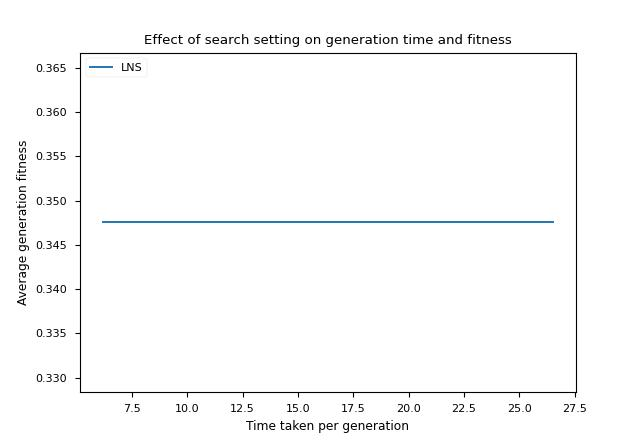
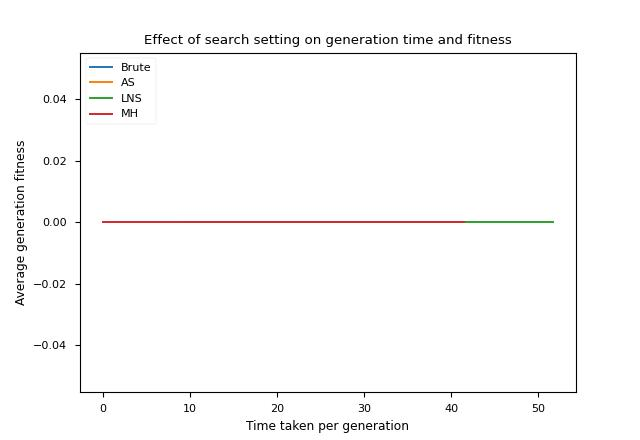
add search timeout comparison plot and best chromosome stats

diff --git a/metasynthesis/programming_language/plot_statistics.py b/metasynthesis/programming_language/plot_statistics.py
@@ -13,11 +13,12 @@ class LanguageStatistics:
         self.dsl = StandardDomainSpecificLanguage(domain)
 
         # These parameters are manually updated based on analysis of the plots
-        self.best_parameters = {"generation_limit": 2,
+        self.best_parameters = {"generation_limit": 3,
                                 "generation_size": 6,
                                 "search_mode": "debug",
                                 "search_algorithm": "AS",
-                                "max_search_time": 1,
+                                "search_setting": "SO",
+                                "max_search_time": 0.3,
                                 "crossover_probability": 0.8,
                                 "mutation_probability": 0.3,
                                 }
@@ -27,7 +28,6 @@ class LanguageStatistics:
 
         search_algorithms = ["Brute", "AS", "LNS", "MH"]
         # search_algorithms = ["LNS"]
-
 
         general_genetic = EvolvingLanguage(max_search_time=self.best_parameters["max_search_time"],
                                            generation_size=self.best_parameters["generation_size"])
@@ -98,6 +98,44 @@ class LanguageStatistics:
         plt.title("Effect of search setting on generation time and fitness")
         plt.legend(loc="upper left")
         plt.savefig("metasynthesis/programming_language/results/search_setting_comparison.jpg")
+        plt.show()
+
+    def plot_search_timeout_performance(self):
+        timeouts = [1, 2, 4, 7, 10]
+
+        general_genetic = EvolvingLanguage(max_search_time=self.best_parameters["max_search_time"],
+                                           generation_size=self.best_parameters["generation_size"])
+        start_population = general_genetic.generate_population()
+
+        for timeout in timeouts:
+            genetic = EvolvingLanguage(generation_limit=self.best_parameters["generation_limit"],
+                                       generation_size=self.best_parameters["generation_size"],
+                                       search_mode=self.best_parameters["search_mode"],
+                                       max_search_time=timeout,
+                                       crossover_probability=self.best_parameters["crossover_probability"],
+                                       mutation_probability=self.best_parameters["mutation_probability"],
+                                       dsl=self.dsl,
+                                       start_population=start_population,
+                                       search_algo=self.best_parameters["search_algorithm"],
+                                       search_setting=self.best_parameters["search_setting"])
+            all_results = genetic.run_evolution()
+
+            generations, generation_times, average_fitness_values = \
+                extract_generation_time_and_fitness(all_results, "Average fitness")
+
+            generations_stats = all_results["Generation statistics"]
+            generations_best_correct = []
+
+            for gen in generations_stats:
+                generations_best_correct.append(generations_stats[gen]["Generation best stats"]["correct"])
+
+            plt.plot(generation_times, generations_best_correct, label=timeout)
+
+        plt.xlabel("Generation time")
+        plt.ylabel("Ratio correct of best chromosome")
+        plt.title("Effect of timeout on ratio correct and generation time")
+        plt.legend(loc="upper left")
+        plt.savefig("metasynthesis/programming_language/results/search_timeout_comparison.jpg")
         plt.show()
 
     def plot_mutation_method_performance(self):

diff --git a/metasynthesis/programming_language/evolve_language.py b/metasynthesis/programming_language/evolve_language.py
@@ -230,9 +230,12 @@ class EvolvingLanguage(GeneticAlgorithm):
             generation_time_taken = t2_stop_generation - t2_start_generation
             generation_average_fitness = generation_cum_fitness / self.generation_size
             generation_best_fitness = self.fitness(population[0])
+
+            generation_best_stats = get_chromosome_stats(population[0])
             generation_statistics[str(iteration_count)] = {"Time taken": generation_time_taken,
                                                            "Best fitness": generation_best_fitness,
-                                                           "Average fitness": generation_average_fitness}
+                                                           "Average fitness": generation_average_fitness,
+                                                           "Generation best stats": generation_best_stats}
 
             print("AVG FITNESS:", round(generation_average_fitness, 4),
                   "TIME TAKEN:", generation_time_taken)
@@ -530,6 +533,13 @@ def extract_special_tokens(best_programs: List, dsl: DomainSpecificLanguage):
                     successful_tokens_counts[str(token)] = successful_tokens_counts[str(token)] + 1
 
                 # print(str(token), successful_tokens_counts[str(token)])
+
+
+def get_chromosome_stats(chromosome: DomainSpecificLanguage):
+    stats = genome_fitness_values[str(chromosome)]
+    return {"correct": stats["correct"],
+            "search": stats["search"],
+            "fitness": stats["fitness"]}
 
 
 def print_chromosome_stats(chromosome: DomainSpecificLanguage):

diff --git a/language_run_genetic.py b/language_run_genetic.py
@@ -34,6 +34,7 @@ if __name__ == '__main__':
 
     stats.plot_search_algorithm_performance()
     stats.plot_search_setting_performance()
-    # stats.plot_mutation_method_performance()
-    # stats.plot_crossover_method_performance()
+    stats.plot_search_timeout_performance()
+    stats.plot_mutation_method_performance()
+    stats.plot_crossover_method_performance()
 
